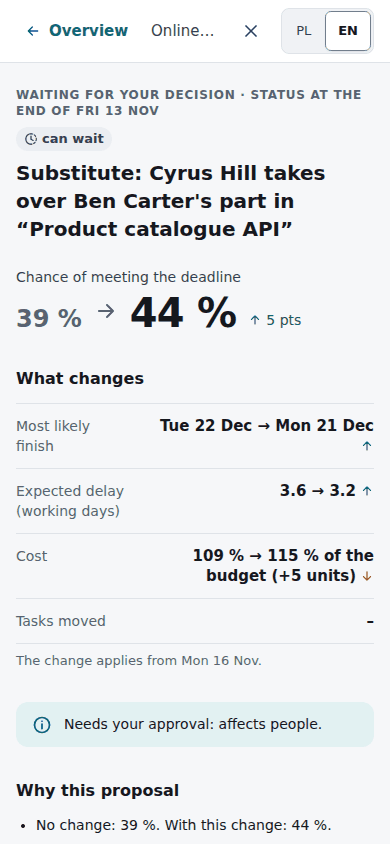
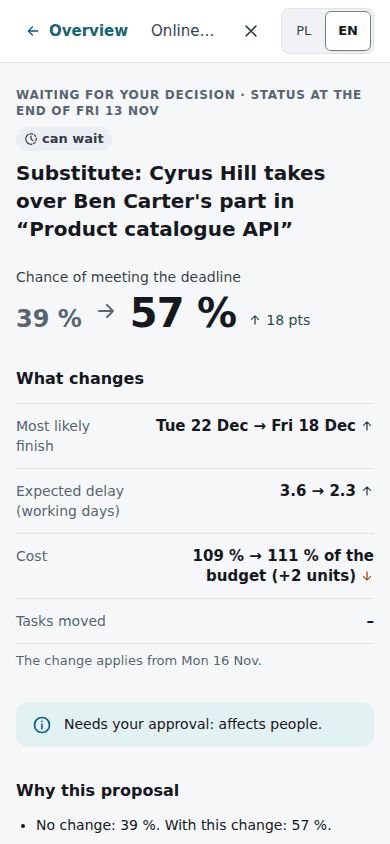
WP12 fix: a handover keeps its real order after a growth at the same work done (spec v2.2.1)
- Observation.handover_positions (optional): each handover's count of the shocks observed before
  it, given only when the rule of section 5.1 would misplace it; research observations carry none
- work_history replays a handover after the shocks observed before it; the engine records the
  position at a substitution, a live project from its log (stored 1.4.0 projects included)
- the B3 case: the onboarding stays 2 crew-member days and every rebuilt world is the one the card
  applied the action to (the substitution reads 57 % on card and overview; it read 44 %)
- spec v2.2.1: section 5.1 note and 11.3; the SPEC-Q marker removed; guides, changelog, notes and
  the recommendation screenshots follow the new figures

diff --git a/src/sentinel/simulation/state.py b/src/sentinel/simulation/state.py
@@ -111,7 +111,12 @@ class Observation(BaseModel):
     members included (spec section 3.1 a); a member replaced by SUBST has left it (spec section
     4). `work_increases` lists every observed D2 shock as (activity, e_j before the shock,
     factor F), and `handovers` every SUBST handover as (activity, e_j at the handover, work
-    added m_j o_j in crew-member days, i.e. h_j M_j; spec section 3). `budget` is B (spec
+    added m_j o_j in crew-member days, i.e. h_j M_j; spec section 3). `handover_positions`, if
+    not empty, gives for each handover the number of work increases observed before it, so that
+    a handover keeps its real place among the work increases at equal work done (spec section
+    5.1, v2.2.1); it is reported only when the rule of the engine's own order (a handover before
+    every work increase at its work done, step 3 before step 5) would misplace one, which a
+    research run never does, so research observations leave it out. `budget` is B (spec
     section 1.2), `costs` the daily costs c_k and `overtime_costs` the c_OT_k of temporary
     workers (spec section 4); the engine always reports them. `optional` lists the optional
     activities O that DESCOPE may remove; an activity it removed has the status "removed" (spec
@@ -139,6 +144,7 @@ class Observation(BaseModel):
     pert: PertParams
     disruptions: DisruptionParams
     handovers: tuple[tuple[int, float, int], ...] = Field(default=(), exclude_if=_unset)
+    handover_positions: tuple[NonNegativeInt, ...] = Field(default=(), exclude_if=_unset)
     temporary: tuple[TemporaryWorker, ...] = Field(default=(), exclude_if=_unset)
     budget: float | None = None
     costs: tuple[float, ...] = ()
@@ -191,6 +197,7 @@ class EngineState:
         "finish",
         "first_temporary",
         "handover_factor",
+        "handover_positions",
         "handovers",
         "hired",
         "idle",
@@ -304,6 +311,7 @@ class EngineState:
         self.inserted: list[InsertedActivity] = []
         self.work_increases: list[tuple[int, float, float]] = []
         self.handovers: list[tuple[int, float, int]] = []
+        self.handover_positions: list[int] = []  # work increases before each handover (5.1)
 
         self.first_temporary = n_workers
         self.temporary: list[TemporaryWorker] = []  # by id - first_temporary
@@ -441,6 +449,22 @@ class EngineState:
         """
         return SampledWorld(tuple(self.remaining), tuple(self.return_day))
 
+    def reported_positions(self) -> tuple[int, ...]:
+        """The handovers' positions among the work increases if the engine's order (a handover
+        before every work increase at its work done) would misplace one, else () (spec section
+        5.1, v2.2.1): only a work increase observed before a handover at the same work done,
+        which a research run never has (its growth is drawn in step 5 of a day of progress)."""
+        positions = self.handover_positions
+        for h, (j, work, _) in enumerate(self.handovers):
+            unit = self.unit[j]
+            at = crew_member_days(work, unit)
+            if any(
+                a == j and crew_member_days(e, unit) == at
+                for a, e, _ in self.work_increases[: positions[h]]
+            ):
+                return tuple(positions)
+        return ()
+
     def observe(self) -> Observation:
         """The agent's view of the current day (spec section 3); hidden fields are left out."""
         # The engine maintains the invariants, so validation is skipped for speed.
@@ -463,6 +487,7 @@ class EngineState:
             pert=self.pert,
             disruptions=self.disruptions,
             handovers=tuple(self.handovers),
+            handover_positions=self.reported_positions(),
             temporary=tuple(self.temporary),
             budget=self.budget,
             costs=self.role_costs,
@@ -584,6 +609,7 @@ def state_from_observation(
     state.inserted = list(observation.inserted)
     state.work_increases = list(observation.work_increases)
     state.handovers = list(observation.handovers)
+    state.handover_positions = list(handover_positions(observation))
     status = state.status = list(observation.status)
     state.start = list(observation.start)
     state.finish = list(observation.finish)
@@ -660,22 +686,41 @@ def work_history(observation: Observation) -> dict[int, list[tuple[int, float, f
 
     A D2 shock multiplies the remaining work by F and adds nothing; a SUBST handover adds its
     m_j o_j = h_j M_j crew-member days with factor 1. At equal work done a handover (step 3)
-    comes before a shock (step 5 of the same day, before any progress); shocks and handovers keep
-    their observed order (spec section 5.1).
+    comes before a shock (step 5 of the same day, before any progress), unless the observation
+    places it after earlier work increases (`handover_positions`: a growth reported at a
+    check-in, then a substitute; v2.2.1); shocks and handovers keep their observed order (spec
+    section 5.1).
     """
-    changes: dict[int, list[tuple[int, int, int, float, float]]] = {}
+    changes: dict[int, list[tuple[int, int, int, int, float, float]]] = {}
+    # At equal work done, by position among the work increases: a handover's (the work increases
+    # observed before it, `handover_positions`; by default none, the engine's order) or a work
+    # increase's own index, a handover before the work increase of its position.
     for i, (j, work_done, factor) in enumerate(observation.work_increases):
         unit = max(1, sum(nominal_activity(observation, j)[1]))
-        entry = (crew_member_days(work_done, unit), 1, i, factor, 0.0)
+        entry = (crew_member_days(work_done, unit), i, 1, i, factor, 0.0)
         changes.setdefault(j, []).append(entry)
+    positions = handover_positions(observation)
     for i, (j, work_done, added) in enumerate(observation.handovers):
         unit = max(1, sum(nominal_activity(observation, j)[1]))
-        entry = (crew_member_days(work_done, unit), 0, i, 1.0, float(added))
+        entry = (crew_member_days(work_done, unit), positions[i], 0, i, 1.0, float(added))
         changes.setdefault(j, []).append(entry)
     return {
-        j: [(at, factor, added) for at, _, _, factor, added in sorted(entries)]
+        j: [(at, factor, added) for at, _, _, _, factor, added in sorted(entries)]
         for j, entries in changes.items()
     }
+
+
+def handover_positions(observation: Observation) -> tuple[int, ...]:
+    """The number of work increases observed before each handover (spec section 5.1, v2.2.1):
+    the observation's own, else none before any, the engine's order."""
+    positions = observation.handover_positions
+    if not positions:
+        return (0,) * len(observation.handovers)
+    if len(positions) != len(observation.handovers) or any(
+        k > len(observation.work_increases) for k in positions
+    ):
+        raise ValueError("handover_positions must give one count of work increases per handover")
+    return positions
 
 
 def nominal_world(observation: Observation) -> SampledWorld:

diff --git a/tests/test_app_comparison.py b/tests/test_app_comparison.py
@@ -9,6 +9,7 @@ from functools import cache
 from pathlib import Path
 from typing import Any
 
+import numpy as np
 import pytest
 from app_cases import (
     ABSENCE_CHECKIN,
@@ -52,11 +53,14 @@ from sentinel.app.ui.text import NBSP, Texts
 from sentinel.app.views import forecast_view, recommendation_view
 from sentinel.dashboard.explain import _percent, checkable, template_explanation
 from sentinel.experiments.runs import derive_seed
+from sentinel.forecasting.beliefs import Belief
 from sentinel.interpret.explain import check, explain, render_record
 from sentinel.llm import FakeLlmClient
 from sentinel.model import ProjectInstance
 from sentinel.policies.base import Decision
-from sentinel.simulation.state import Observation
+from sentinel.policies.no_reaction import NoReaction
+from sentinel.simulation.engine import Run
+from sentinel.simulation.state import Observation, state_from_observation, work_history
 
 LANGUAGES: tuple[Language, ...] = ("pl", "en")
 START = date(2026, 11, 2)
@@ -642,18 +646,52 @@ def check_promise(project: LiveProject, recommendation: Recommendation) -> None:
 
 
 def test_approving_shows_what_the_card_promised() -> None:
-    """B3 of the WP12 test: a substitute for an absent developer."""
-    check_promise(absence_project(), absence_recommendation())
+    """B3 of the WP12 test: a substitute for an absent developer (a fresh project: approving
+    changes it, and `absence_project` is shared)."""
+    check_promise(checked_in(planned(small()), ABSENCE_CHECKIN), absence_recommendation())
 
 
 def test_approving_after_a_task_grew_shows_what_the_card_promised() -> None:
     """B3 of the WP12 test, its second example: in the showcase, the task that grew by 150 %
     and then stopped with its developer away gets a substitute; the card promised 55 % and
-    109 % of the budget, the overview showed 46 % and 113 %."""
+    109 % of the budget, the overview showed 46 % and 113 %. Since v2.2.1 the growth reported
+    before the substitute does not multiply the onboarding: it stays 2 crew-member days (it read
+    5), and every world rebuilt after the approval is the one the card applied the action to."""
     spec = showcase.definition("pl")
     project = planned(spec)
     for checkin in showcase.checkins("pl")[:2]:
         project.apply_checkin(project.resolve_checkin(checkin))
     recommendation = planning.recommend(project)
     assert recommendation.record.chosen == "SUBST(3)"
+    before = project.observation()
+    approved, _ = planning.approval(project, recommendation)
     check_promise(project, recommendation)
+    after = project.observation()
+    ((j, _, added),) = after.handovers
+    assert added == 2 and after.handover_positions == (1,)  # after the growth reported (5.1)
+    assert work_history(after)[j][-1] == (work_history(before)[j][-1][0], 1.0, 2.0)
+    seed = planning.forecast_seed(project, before.day)
+    evaluator = Evaluator(before, seed, planning.sentinel_params(project))
+    belief = Belief(after)
+    for i in range(3):
+        evaluator.world(i)
+        applied = evaluator.templates[i].copy()
+        streams = evaluator.streams[i]
+        streams.rewind()
+        Run(applied, streams, NoReaction(), record_events=False, check_plans=False).apply(
+            approved.decision
+        )
+        belief_seq, _ = np.random.SeedSequence(derive_seed(seed, "rollout", str(i))).spawn(2)
+        world = belief.sample(np.random.Generator(np.random.PCG64(belief_seq)))
+        rebuilt = state_from_observation(after, world, plan=after.plan)
+        assert rebuilt.remaining[j] == applied.remaining[j]  # the onboarding added once, as 2
+
+
+def test_a_handover_without_an_earlier_growth_keeps_the_engines_order() -> None:
+    """Spec 5.1 (v2.2.1): with no work increase before it at its work done, a handover's position
+    is not reported, so such an observation, as every research one, is as it was."""
+    project = checked_in(planned(small()), ABSENCE_CHECKIN)
+    approve_now(project, absence_recommendation())
+    after = project.observation()
+    assert after.handovers and after.handover_positions == ()
+    assert "handover_positions" not in after.model_dump()

diff --git a/src/sentinel/app/live.py b/src/sentinel/app/live.py
@@ -645,6 +645,7 @@ class LiveProject:
         self.absences: list[AbsenceRecord] = []
         self.shocks: list[ShockRecord] = []
         self.handovers: list[HandoverRecord] = []
+        self.handover_after: list[int] = []  # work increases reported before each handover
         self.actions: list[AppliedAction] = []
         self.budget_pin: float | None = None  # the default budget, fixed at the first check-in
 
@@ -939,6 +940,7 @@ class LiveProject:
             handovers=tuple(
                 (ids[h.task], h.work / nodes[h.task].unit, h.added) for h in self.handovers
             ),
+            handover_positions=self.handover_positions(),
             temporary=tuple(temporary),
             budget=model.budget,
             costs=model.costs,
@@ -1302,6 +1304,8 @@ class LiveProject:
         for key, crew in action.crews.items():
             self.tasks[key].crew = crew
             self.tasks[key].crews.append((action.day, crew))
+        # Each handover comes after the work increases reported so far (spec 5.1, v2.2.1).
+        self.handover_after += [len(self.shocks)] * len(action.handovers)
         self.handovers += action.handovers
         for key in action.removed:
             self.tasks[key].state = "removed"
@@ -1313,6 +1317,16 @@ class LiveProject:
 
     def copy(self) -> "LiveProject":
         return copy.deepcopy(self)
+
+    def handover_positions(self) -> tuple[int, ...]:
+        """The handovers' positions among the work increases (spec sections 5.1 and 11.3,
+        v2.2.1), reported when a handover follows a work increase of its task at the same work
+        done (a growth reported at a check-in, then a substitute approved), so that the growth
+        does not multiply the substitute's onboarding; () otherwise, the engine's own order."""
+        for h, k in zip(self.handovers, self.handover_after, strict=True):
+            if any(s.task == h.task and s.work == h.work for s in self.shocks[:k]):
+                return tuple(self.handover_after)
+        return ()
 
     def revise(self, key: str, duration: int) -> None:
         """A task not started yet gets the estimate `duration` (spec section 11.3, v2.2.0): in

diff --git a/src/sentinel/app/planning.py b/src/sentinel/app/planning.py
@@ -642,8 +642,8 @@ class ApprovalEvaluator(Evaluator):
     promises are thus those the overview shows after the approval (B3 of the WP12 test: the
     rollouts of section 6 imagine the approval delta_h days later and apply the action to each
     sampled world, while a live approval applies it now and the next forecast samples the worlds
-    of the new observation). The simulator keeps `Evaluator`: its simulated human approves
-    delta_h days later (section 11.6)."""
+    of the new observation, whose handover keeps its place after an earlier growth, v2.2.1). The
+    simulator keeps `Evaluator`: its simulated human approves delta_h days later (11.6)."""
 
     def __init__(
         self, project: LiveProject, observation: Observation, seed: int, params: SentinelParams
@@ -666,9 +666,6 @@ class ApprovalEvaluator(Evaluator):
                 return self.observation
             decision = prepared.decision
         trial = self.project.copy()
-        # SPEC-Q: a growth reported at a check-in and a substitute approved later at the same work
-        # done are replayed handover first (spec 5.1: step 3 precedes step 5), so the onboarding
-        # grows with the factor (2 -> 5 crew-member days in B3); keep their order instead?
         outcome = trial.resolve_action(decision, candidate.label, candidate.kind)
         if isinstance(outcome, str):
             return self.observation

diff --git a/src/sentinel/simulation/engine.py b/src/sentinel/simulation/engine.py
@@ -845,6 +845,7 @@ def _substitute(state: EngineState, op: Subst, t: int) -> Substitution | str:
         idle[role[new]].remove(new)
     state.assigned[j] = tuple(replaced.get(w, w) for w in crew)
     state.handovers.append((j, work, added))
+    state.handover_positions.append(len(state.work_increases))  # after those seen (5.1)
     _update_crew(state, j, t)
     return Substitution(
         day=t,

diff --git a/docs/spec/model.md b/docs/spec/model.md
@@ -1,4 +1,4 @@
-# Sentinel — formal model (v2.2.0)
+# Sentinel — formal model (v2.2.1)
 
 Source of truth for all semantics. Code must implement this document; changes require an ADR
 and explicit approval (see `spec-guard` skill). Clarifications approved by the architect in a WP
@@ -94,7 +94,11 @@ check-in (§11.4); a move of the chance at a check-in is decomposed into its cau
 one-at-a-time counterfactuals (§11.4); the calendar of a live project skips the Polish public
 holidays and its own days off (§11.1); a work increase of a task not started revises its estimate
 (§11.3) and such tasks can be corrected after the first check-in, with the default budget fixed
-at it (§11.2); §1–§10 are unchanged.
+at it (§11.2); §1–§10 are unchanged. v2.2.1 (WP12, the answer to its question on §5.1) an
+observation may give each SUBST handover's position among the observed shocks, so that a
+handover keeps its real order after a shock at the same work done (a growth reported at a
+check-in, then a substitute approved) and the growth does not multiply the onboarding (§5.1,
+§11.3); research observations carry no position, so the research runs are unchanged.
 
 Notation: indices are 0-based in code. Time is discrete, `t ∈ ℕ`, unit = one working day.
 
@@ -438,7 +442,13 @@ The rollouts of §5 start from a state sampled from the belief given the observa
   SUBST handovers `(e_i, h_i)` (work done at the handover, `h_j` of §3) are replayed with the
   shocks in order of work done, a handover before a shock at equal work (step 3 precedes step
   5): `R_i = R_{i−1} − (e_i − e_{i−1}) + h_i`, requiring `R_{i−1} − (e_i − e_{i−1}) > 0` (the
-  activity had not finished before the handover).
+  activity had not finished before the handover). An observation may instead give each
+  handover's position, the number of shocks observed before it (v2.2.1, WP12): at equal work done
+  a handover then keeps its real place among the shocks, so a shock observed before a handover
+  never multiplies its onboarding. The position is given only when the rule above would misplace
+  a handover, i.e. after a shock of its activity at the same work done; a research run never has
+  that (a shock is drawn in step 5 of a day on which the activity progresses), so its
+  observations carry no position and replay as above.
   Unstarted original activities sample `P_j` from the unconditional pmf; inserted activities use
   their nominal duration as `p_j`.
 - **Absences.** For an absent worker with absence start `s`, announced bound `L_low` and today
@@ -945,6 +955,9 @@ or before `d` (`−1` before `date(0)`).
   - *Work increases.* `×F` with `F > 1` is used as given; `+N` working days (`N > 0`) gives
     `F = (R + N) / R`, with `R` the deterministic remaining work of §5.2 in full-crew days after
     the check-in's progress. The shock `(j, e_j, F)` is appended to the observed shocks (§3).
+    A handover of an approved action comes after the shocks reported before it; when one of them
+    is of its task at the same work done, the observation gives the handovers' positions (§5.1,
+    v2.2.1), so the substitute's onboarding is not grown by the earlier factor.
   - *New tasks* get the next ids `n + 2, …`, status unstarted and the planned start of §3.1 (e).
   - *Cost so far*: the work done of every started task, `e_j` full-crew days at the daily cost of
     its crew's people (temporary workers excluded), plus the pay `c_OT_k` of each temporary

diff --git a/CHANGELOG.md b/CHANGELOG.md
@@ -11,7 +11,9 @@ identical across all releases (`sentinel reproduce --check`: 117 of 117 files).
   worked out as the approval applies it (at once, on the forecast's worlds), so the overview after
   an approval shows exactly the promised chance, most likely finish, bad case and cost; the card
   shows the most likely finish of the same worlds as the overview; the plan without disruptions is
-  labelled apart from the forecast's dates (spec v2.2.0, section 11.5).
+  labelled apart from the forecast's dates (spec v2.2.0, section 11.5). A substitute approved after
+  a growth reported at the same work done keeps that order, so the growth no longer multiplies its
+  onboarding (spec v2.2.1, section 5.1; research observations unchanged).
 - The chart, the task list, the plan CSV and the HTML report show the current plan from the latest
   check-in, checked against the dependencies (those of new tasks too) with `validate_residual`, the
   original plan in its own columns; a line explains the gap to the forecast window (11.4).

diff --git a/docs/user-guide-en.md b/docs/user-guide-en.md
@@ -230,8 +230,8 @@ recommendation shows:
 - the **action** in plain words, e.g. "Substitute: Cyrus Hill takes over Ben Carter's part in
   “Product catalogue API”"; above it the day whose status it reads (*status at the end of*, from the
   check-in), and under **What changes** the first day the change applies to,
-- its **effect** compared with no change: the chance ("39 % → 46 %") and, under **What changes**, the
-  most likely finish, the expected delay, the cost ("107 % → 113 % of the budget (+5 units)") and how
+- its **effect** compared with no change: the chance ("39 % → 57 %") and, under **What changes**, the
+  most likely finish, the expected delay, the cost ("109 % → 111 % of the budget (+2 units)") and how
   many tasks have their dates moved. Since 1.4.0 every option is worked out as approving it applies
   it, at once and on the same futures. After an approval the overview therefore shows exactly the
   promised chance, dates and cost. If something changed after the recommendation (e.g. the

diff --git a/docs/user-guide-pl.md b/docs/user-guide-pl.md
@@ -235,8 +235,8 @@ plan. Rekomendacja pokazuje:
   nieobecnej (Bartosz Kowalski) w zadaniu „API katalogu produktów””; nad nim dzień, którego stan
   czyta (*stan na koniec dnia* z raportu), a pod **Co się zmieni** pierwszy dzień, który zmiana
   obejmuje,
-- **efekt** w porównaniu z brakiem zmian: szansa („39 % → 46 %”), a pod **Co się zmieni**:
-  najbardziej prawdopodobny koniec, oczekiwane opóźnienie, koszt („107 % → 113 % budżetu (+5
+- **efekt** w porównaniu z brakiem zmian: szansa („39 % → 57 %”), a pod **Co się zmieni**:
+  najbardziej prawdopodobny koniec, oczekiwane opóźnienie, koszt („109 % → 111 % budżetu (+2
   jedn.)”) i liczba zadań, których terminy się przesuwają. Od wersji 1.4.0 każda możliwość jest
   liczona tak, jak zastosuje ją zatwierdzenie: od razu i na tych samych scenariuszach. Po
   zatwierdzeniu przegląd pokazuje więc dokładnie obiecaną szansę, daty i koszt. Jeśli coś zmieniło

diff --git a/docs/notes/WP12.md b/docs/notes/WP12.md
@@ -15,7 +15,9 @@ applied at once. The re-sampled worlds put it at 46 %: the observation lists a g
 a check-in and a later handover at the same work done, and the replay of §5.1 puts a handover
 before a growth at equal work, so the onboarding of 2 crew-member days became 5 (factor 2.5). In
 research runs this tie cannot occur, because a growth is drawn in step 5 and the task progresses
-the same day; it is a spec question for §5.1.
+the same day. The owner's answer (v2.2.1): an observation may give each handover's position among
+the observed growths (`handover_positions`), reported only for such a tie, so research
+observations are unchanged; the substitution then reads 59 % on the card and the overview alike.
 
 **Plan shown (§11.4).** The pages show the deterministic forecast of §5.2 from the latest
 observation (nominal world, no future disruptions, NoReaction), its unstarted part checked by
